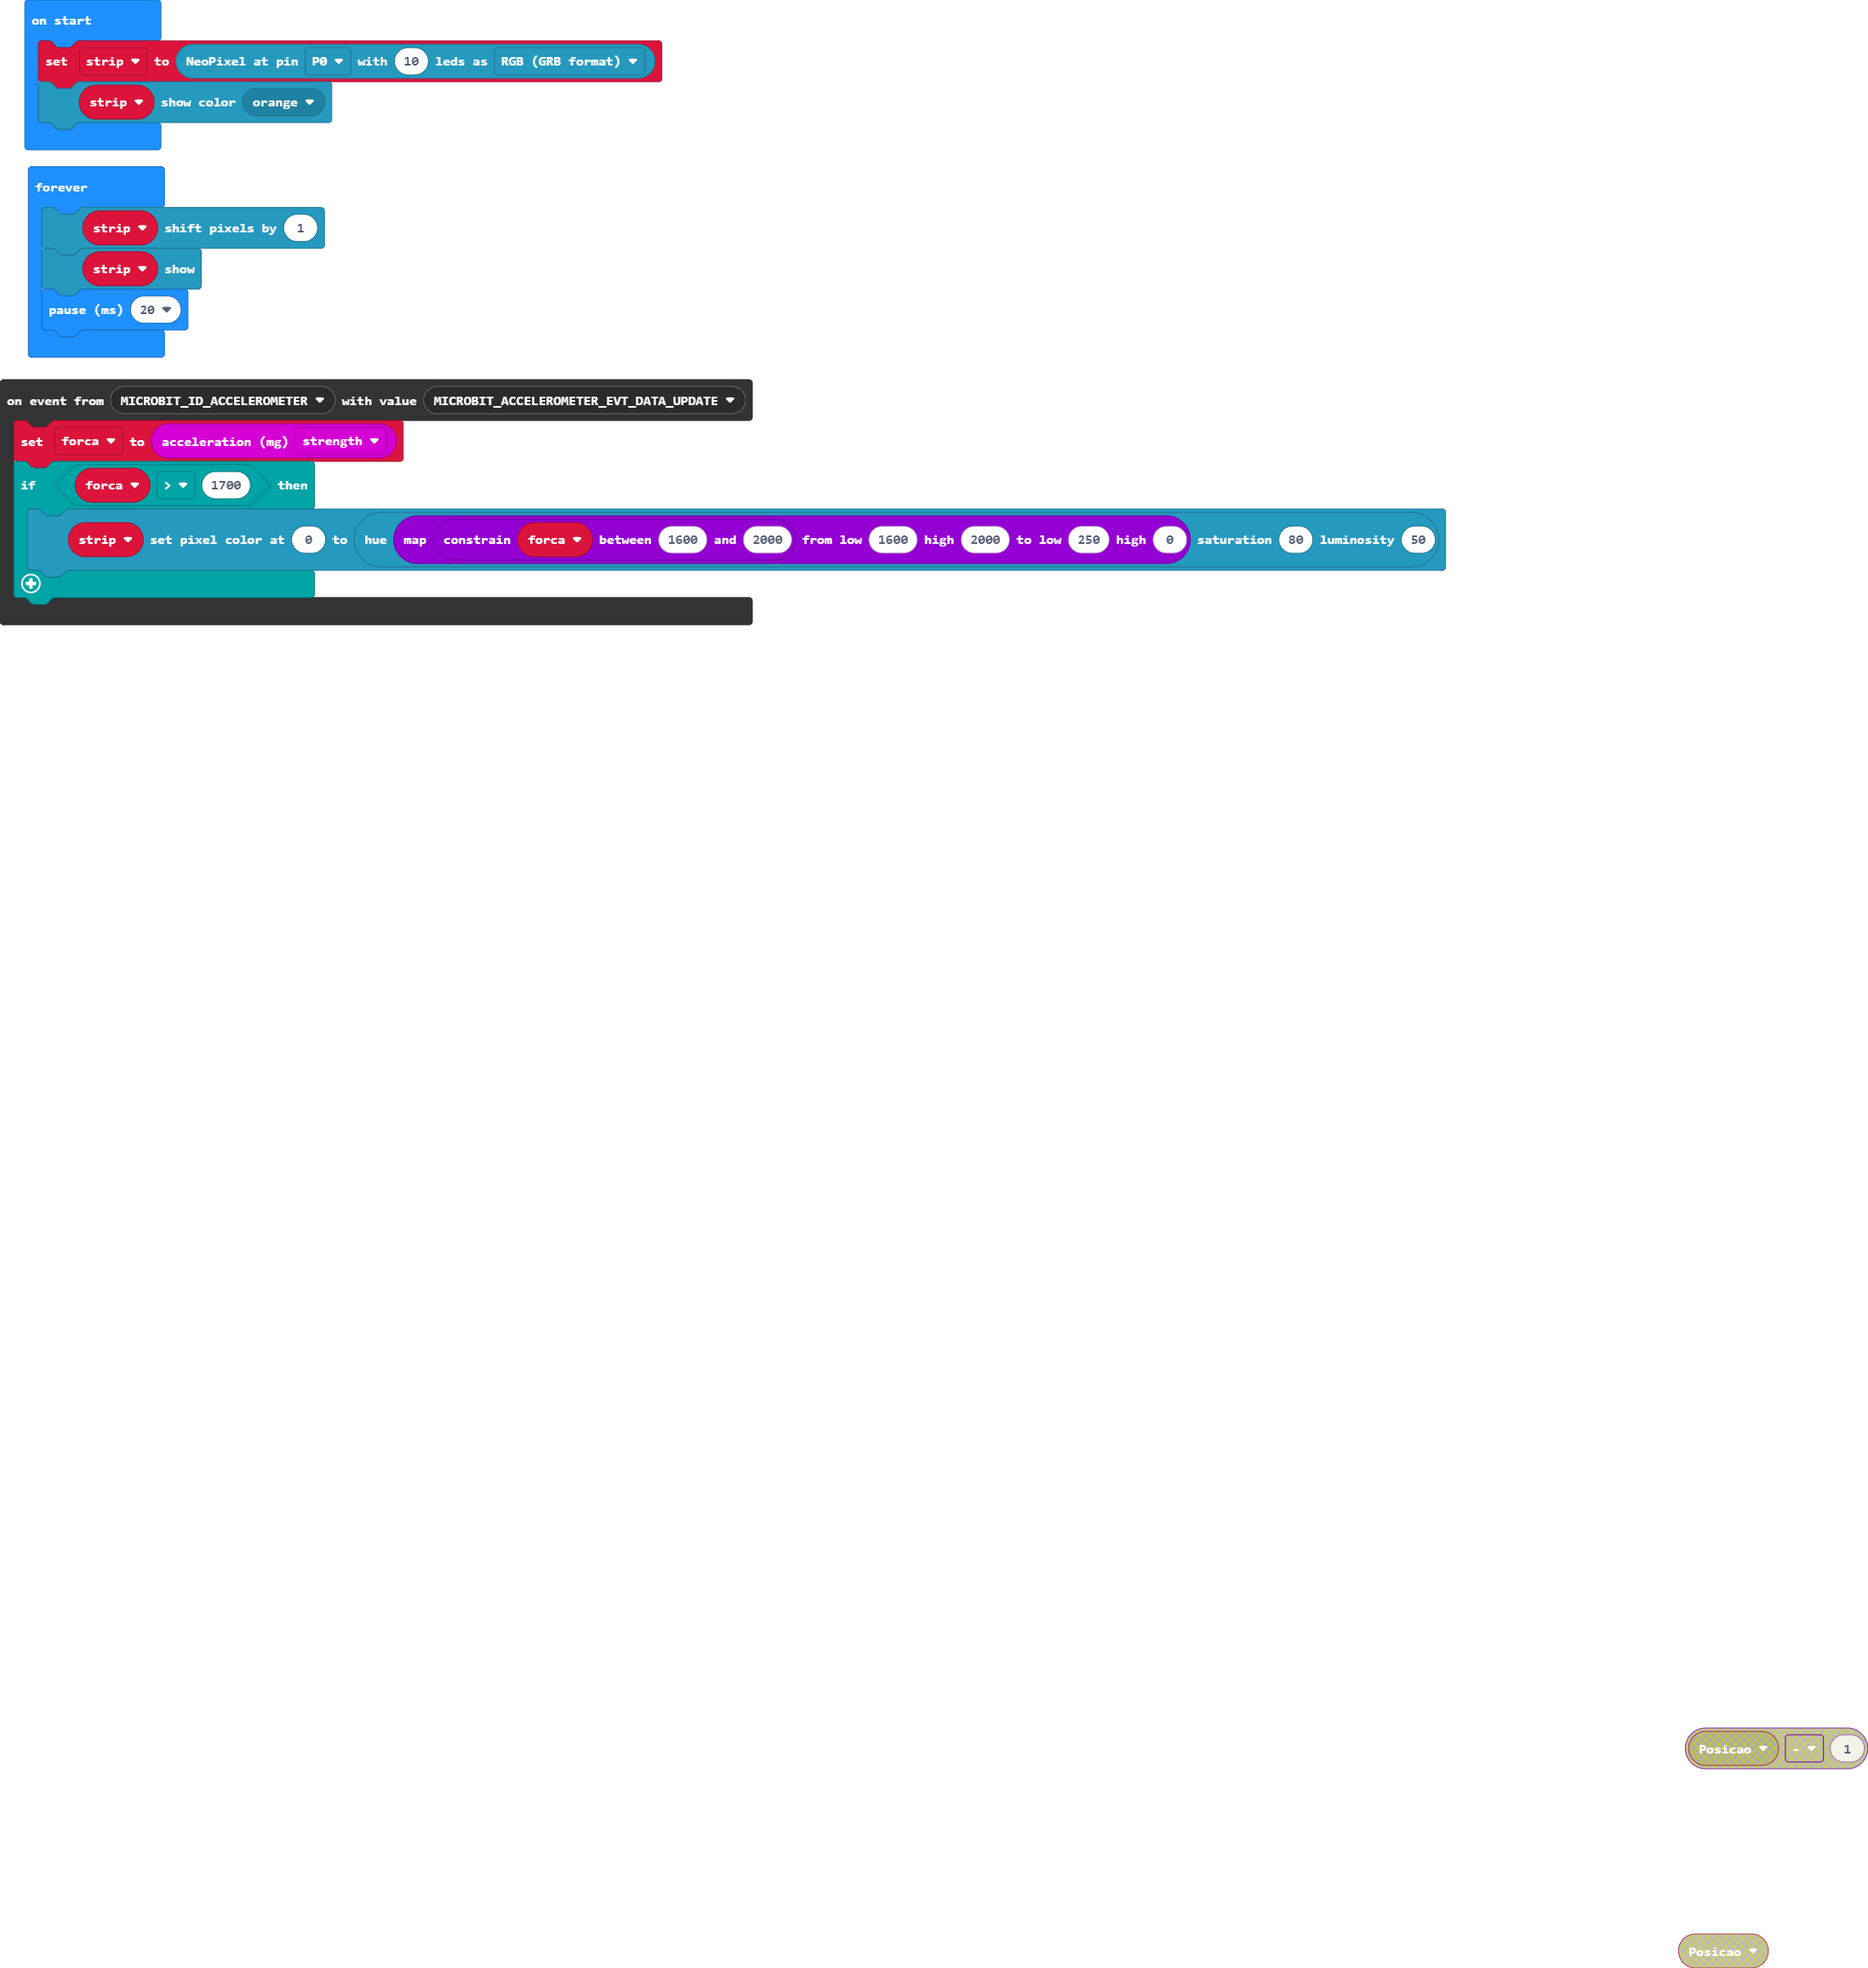
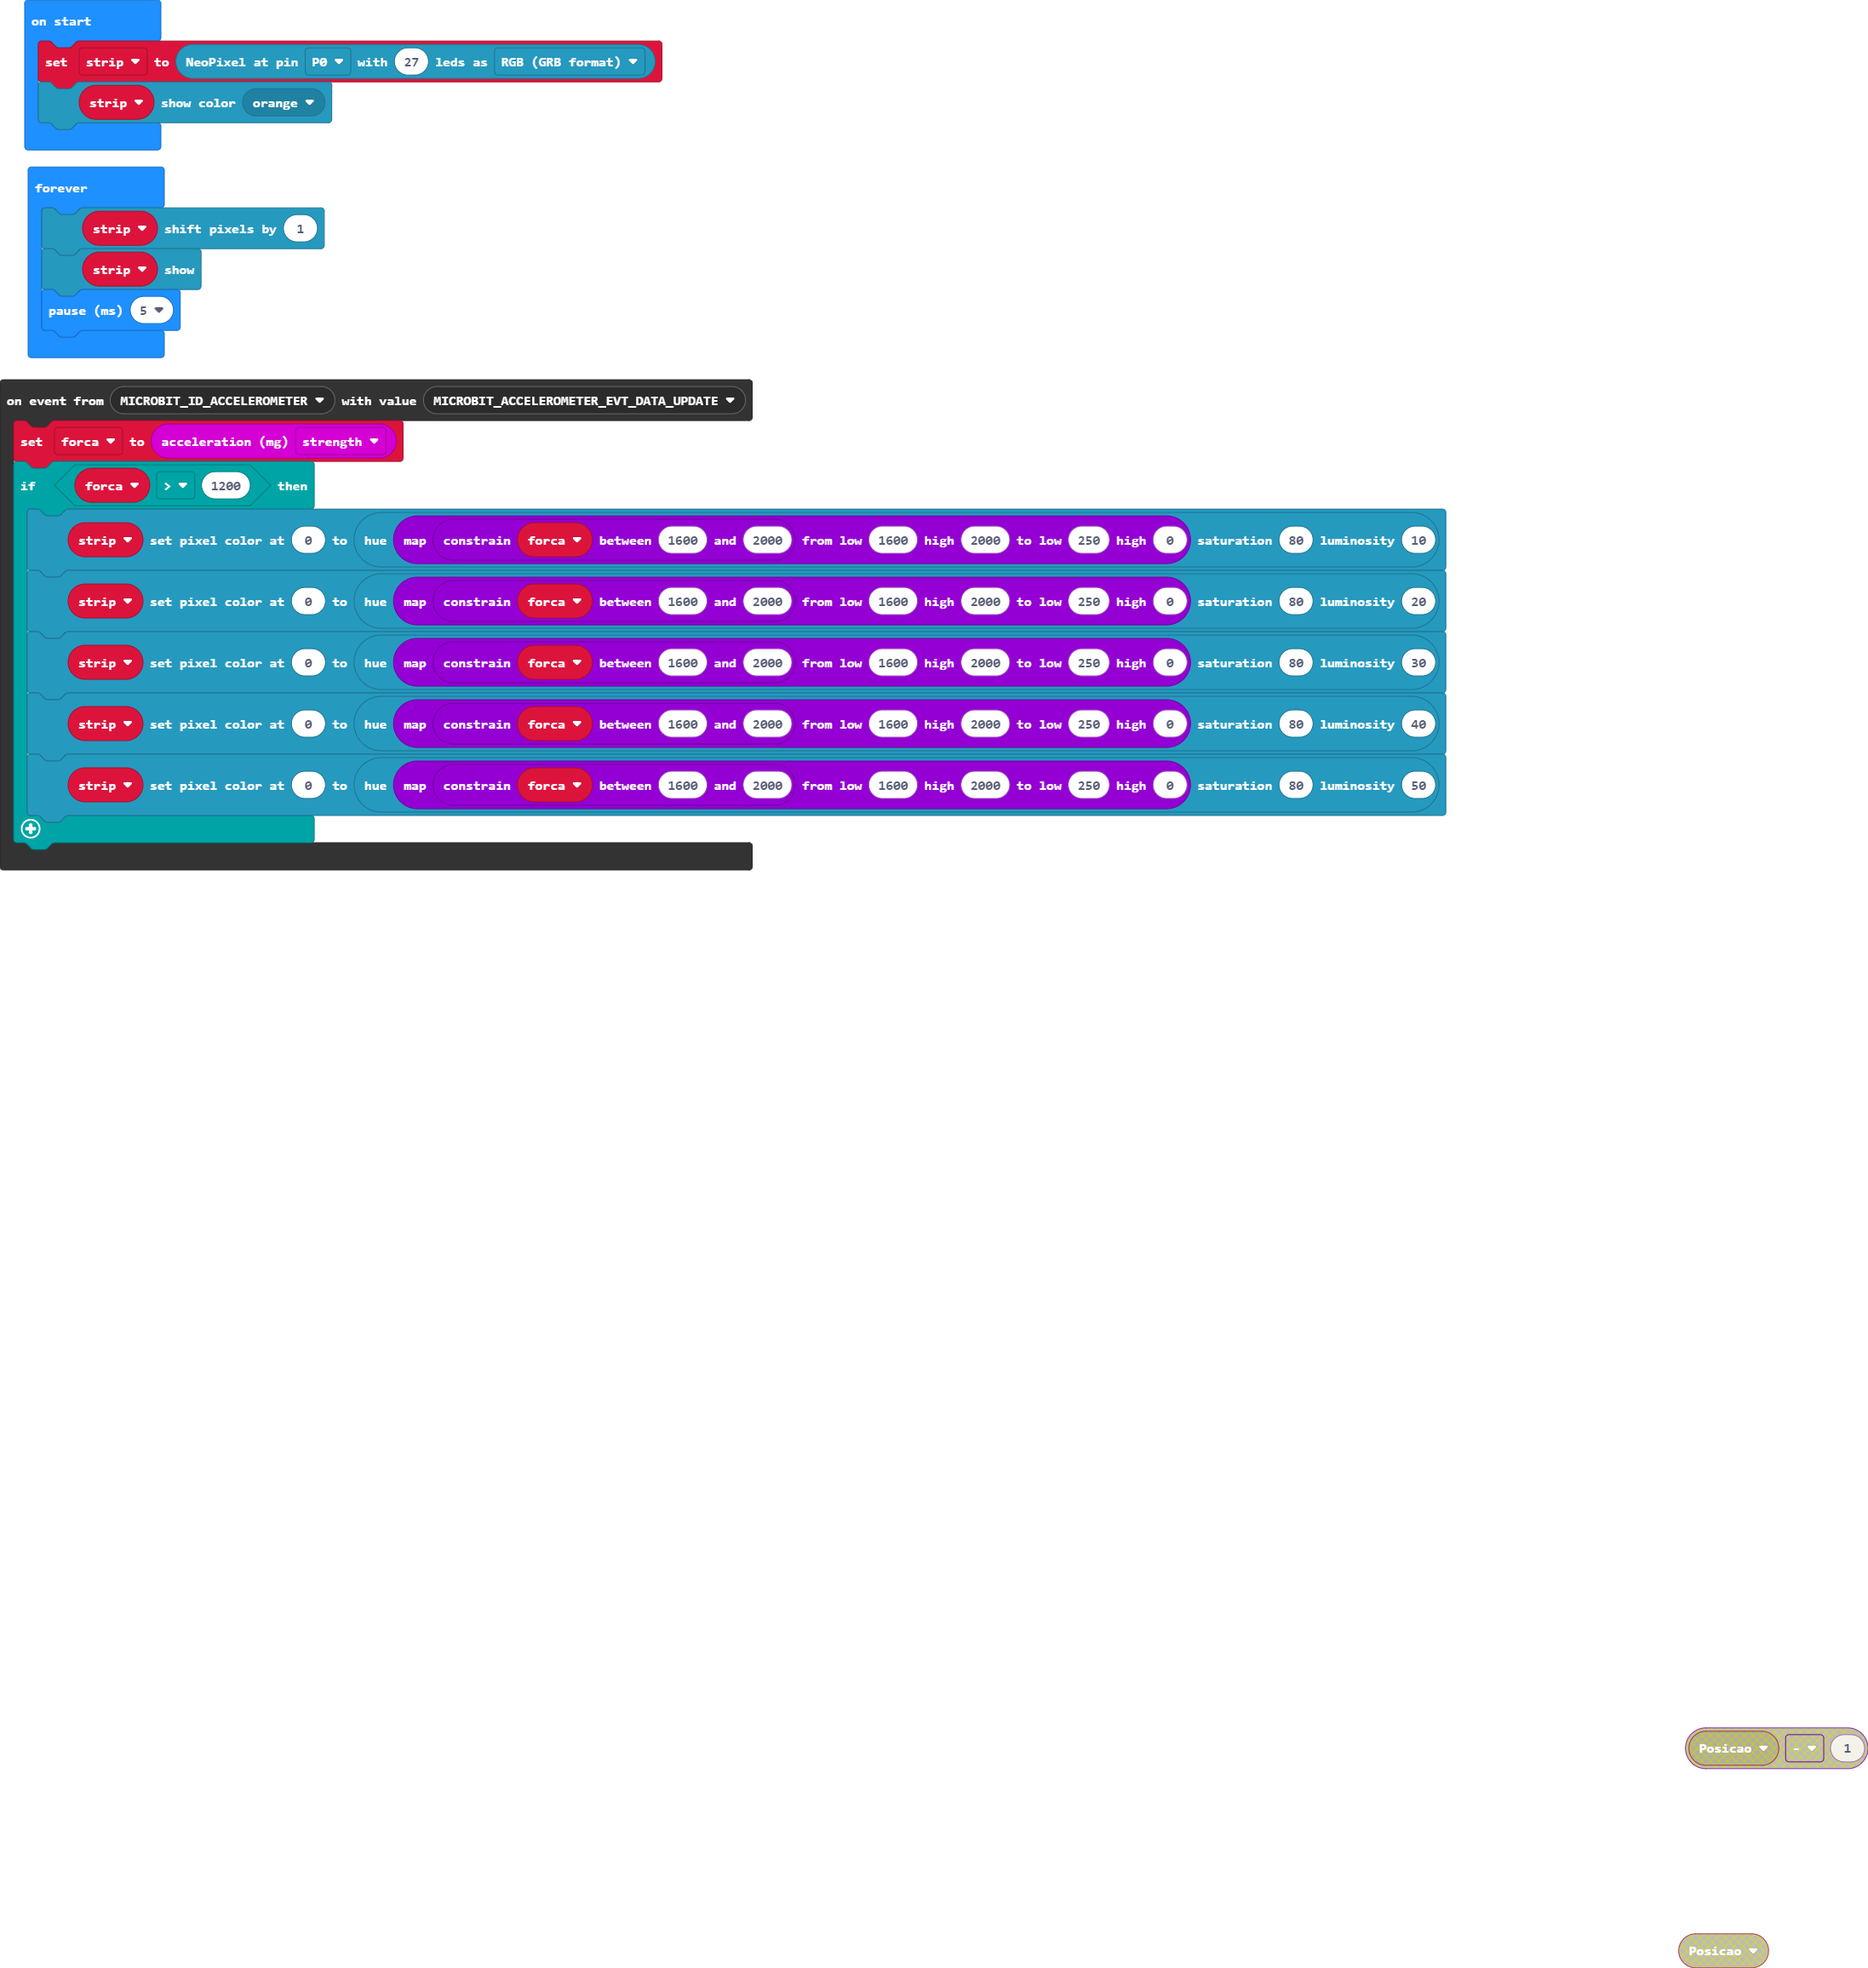
Updates

diff --git a/main.ts b/main.ts
@@ -1,15 +1,19 @@
 control.onEvent(EventBusSource.MICROBIT_ID_ACCELEROMETER, EventBusValue.MICROBIT_ACCELEROMETER_EVT_DATA_UPDATE, function () {
     forca = input.acceleration(Dimension.Strength)
-    if (forca > 1700) {
+    if (forca > 1200) {
+        strip.setPixelColor(0, neopixel.hsl(Math.map(Math.constrain(forca, 1600, 2000), 1600, 2000, 250, 0), 80, 10))
+        strip.setPixelColor(0, neopixel.hsl(Math.map(Math.constrain(forca, 1600, 2000), 1600, 2000, 250, 0), 80, 20))
+        strip.setPixelColor(0, neopixel.hsl(Math.map(Math.constrain(forca, 1600, 2000), 1600, 2000, 250, 0), 80, 30))
+        strip.setPixelColor(0, neopixel.hsl(Math.map(Math.constrain(forca, 1600, 2000), 1600, 2000, 250, 0), 80, 40))
         strip.setPixelColor(0, neopixel.hsl(Math.map(Math.constrain(forca, 1600, 2000), 1600, 2000, 250, 0), 80, 50))
     }
 })
 let forca = 0
 let strip: neopixel.Strip = null
-strip = neopixel.create(DigitalPin.P0, 10, NeoPixelMode.RGB)
+strip = neopixel.create(DigitalPin.P0, 27, NeoPixelMode.RGB)
 strip.showColor(neopixel.colors(NeoPixelColors.Orange))
 basic.forever(function () {
     strip.shift(1)
     strip.show()
-    basic.pause(20)
+    basic.pause(5)
 })
